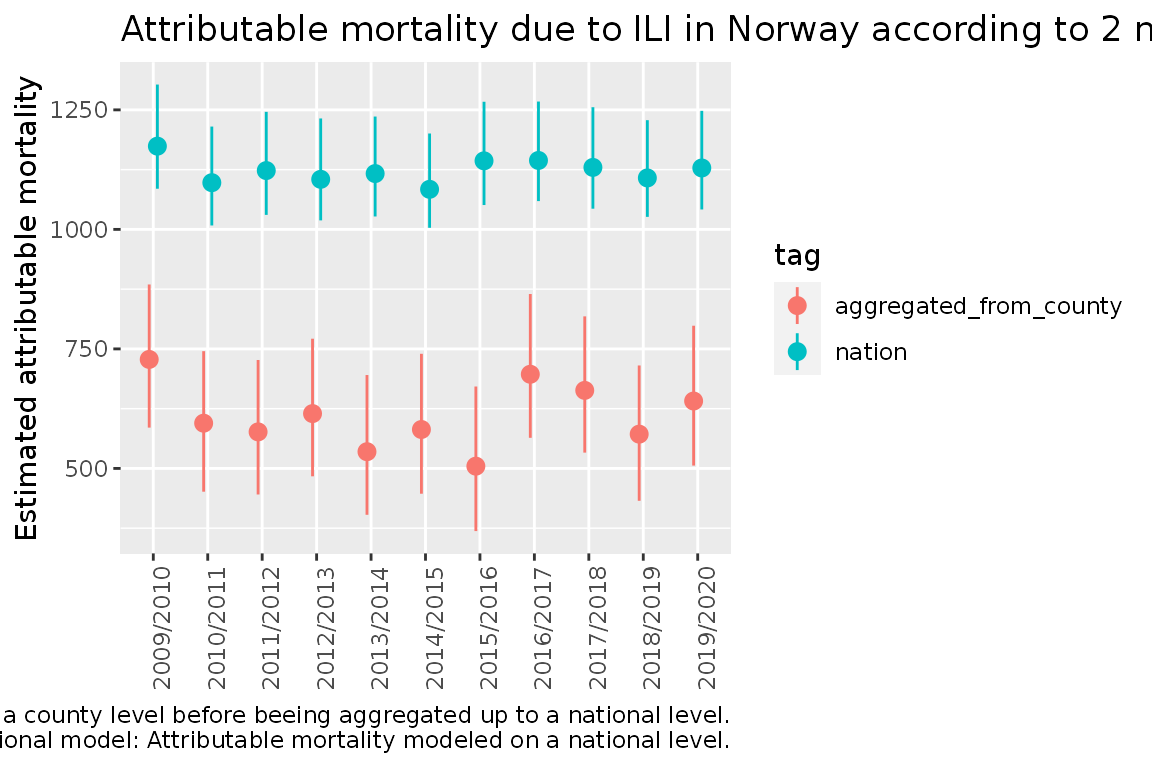
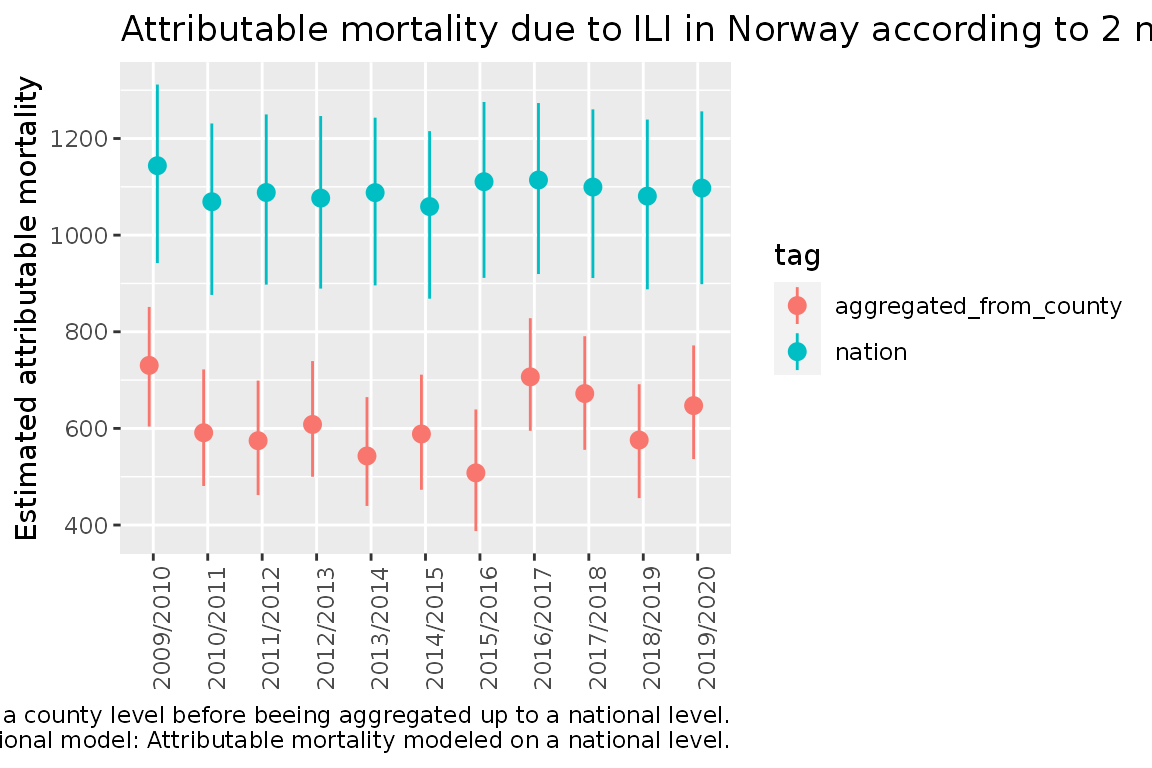
Deploy folkehelseinstituttet/attrib to github.com/folkehelseinstituttet/attrib.git:gh-pages

diff --git a/articles/intro.html b/articles/intro.html
@@ -90,7 +90,7 @@
 <div class="sourceCode" id="cb1"><pre class="downlit sourceCode r">
 <code class="sourceCode R"><span class="kw"><a href="https://rdrr.io/r/base/library.html">library</a></span><span class="op">(</span><span class="va">attrib</span><span class="op">)</span>
 <span class="co">#&gt; PACKAGE: attrib</span>
-<span class="co">#&gt; Version: 2021.01.26 at 04:44</span></code></pre></div>
+<span class="co">#&gt; Version: 2021.01.26 at 04:56</span></code></pre></div>
 <div id="introduction" class="section level1">
 <h1 class="hasAnchor">
 <a href="#introduction" class="anchor"></a>Introduction</h1>
@@ -285,11 +285,11 @@
 <span class="co">#&gt; 4:    1 2009/2010 2010 2010-01 24         norge 5367580  1.160403</span>
 <span class="co">#&gt; 5:    1 2009/2010 2010 2010-01 24         norge 5367580  1.160403</span>
 <span class="co">#&gt;    pr100_ili_lag_1 temperature_high deaths id_row sim_id sim_value</span>
-<span class="co">#&gt; 1:        1.100072                0    891      1      1  897.0764</span>
-<span class="co">#&gt; 2:        1.100072                0    891      1      2  900.9344</span>
-<span class="co">#&gt; 3:        1.100072                0    891      1      3  899.5073</span>
-<span class="co">#&gt; 4:        1.100072                0    891      1      4  895.2787</span>
-<span class="co">#&gt; 5:        1.100072                0    891      1      5  902.8483</span></code></pre></div>
+<span class="co">#&gt; 1:        1.100072                0    891      1      1  904.1044</span>
+<span class="co">#&gt; 2:        1.100072                0    891      1      2  896.2315</span>
+<span class="co">#&gt; 3:        1.100072                0    891      1      3  899.2413</span>
+<span class="co">#&gt; 4:        1.100072                0    891      1      4  901.0780</span>
+<span class="co">#&gt; 5:        1.100072                0    891      1      5  904.5623</span></code></pre></div>
 <p>We can see that we now have multiple expected mortalities for the same dataline. This is due to the coefficient simulations.</p>
 </div>
 <div id="estimating-attributable-mortality-using-est_attrib" class="section level1">
@@ -329,17 +329,17 @@
 <span class="co">#&gt; 4:       1.3909804 -6.02035548                0     97  4      1</span>
 <span class="co">#&gt; 5:       1.3942666 -1.72146124                0    114  5      1</span>
 <span class="co">#&gt;    sim_value_exposures=observed sim_value_temperature_high=0</span>
-<span class="co">#&gt; 1:                     114.2335                     114.2335</span>
-<span class="co">#&gt; 2:                     114.1081                     114.1081</span>
-<span class="co">#&gt; 3:                     119.3749                     119.3749</span>
-<span class="co">#&gt; 4:                     118.1146                     118.1146</span>
-<span class="co">#&gt; 5:                     117.5689                     117.5689</span>
+<span class="co">#&gt; 1:                     114.4406                     114.4406</span>
+<span class="co">#&gt; 2:                     114.6831                     114.6831</span>
+<span class="co">#&gt; 3:                     118.2017                     118.2017</span>
+<span class="co">#&gt; 4:                     117.7648                     117.7648</span>
+<span class="co">#&gt; 5:                     116.2892                     116.2892</span>
 <span class="co">#&gt;    sim_value_pr100_ili_lag_1=0</span>
-<span class="co">#&gt; 1:                    112.0490</span>
-<span class="co">#&gt; 2:                    111.7748</span>
-<span class="co">#&gt; 3:                    111.0028</span>
-<span class="co">#&gt; 4:                    111.7554</span>
-<span class="co">#&gt; 5:                    111.8105</span></code></pre></div>
+<span class="co">#&gt; 1:                    112.9690</span>
+<span class="co">#&gt; 2:                    113.2213</span>
+<span class="co">#&gt; 3:                    113.1184</span>
+<span class="co">#&gt; 4:                    113.7927</span>
+<span class="co">#&gt; 5:                    112.8091</span></code></pre></div>
 <p>We can see in the above dataset that the columns <em>id</em>, <em>sim_id</em>, <em>sim_value_exposures=observed</em>, <em>sim_value_temperature_high=0</em>, <em>sim_value_pr100_ili_lag_1=0</em> are added to the previous set of columns. For each row in the original dataset we now have 20 <!-- change this if we change n_sim --> rows, one for each of the simulations done by est_attrib. In each row we see the estimate of the number of deaths given a reference value for <em>sim_value_temperature_high</em> and <em>sim_value_pr100_ili_lag_1</em>.</p>
 <p>To make the data processing easier later we convert the dataset from wide to long form and collapse the estimated mortality</p>
 <div class="sourceCode" id="cb10"><pre class="downlit sourceCode r">
@@ -364,11 +364,11 @@
 <span class="co">#&gt; 4:      county03 2012/2013 24    1  4      1     97</span>
 <span class="co">#&gt; 5:      county03 2013/2014 24    1  5      1    114</span>
 <span class="co">#&gt;    sim_value_exposures=observed                         attr    value</span>
-<span class="co">#&gt; 1:                     114.2335 sim_value_temperature_high=0 114.2335</span>
-<span class="co">#&gt; 2:                     114.1081 sim_value_temperature_high=0 114.1081</span>
-<span class="co">#&gt; 3:                     119.3749 sim_value_temperature_high=0 119.3749</span>
-<span class="co">#&gt; 4:                     118.1146 sim_value_temperature_high=0 118.1146</span>
-<span class="co">#&gt; 5:                     117.5689 sim_value_temperature_high=0 117.5689</span></code></pre></div>
+<span class="co">#&gt; 1:                     114.4406 sim_value_temperature_high=0 114.4406</span>
+<span class="co">#&gt; 2:                     114.6831 sim_value_temperature_high=0 114.6831</span>
+<span class="co">#&gt; 3:                     118.2017 sim_value_temperature_high=0 118.2017</span>
+<span class="co">#&gt; 4:                     117.7648 sim_value_temperature_high=0 117.7648</span>
+<span class="co">#&gt; 5:                     116.2892 sim_value_temperature_high=0 116.2892</span></code></pre></div>
 <p>We can see that the columns <em>sim_value_temperature_high=0</em>, <em>sim_value_pr100_ili_lag_1=0</em> are now collapsed into the new column <em>attr</em> and <em>value</em> with <em>attr</em> describing which exposure we have and <em>value</em> giving the corresponding reference value.</p>
 <div class="sourceCode" id="cb11"><pre class="downlit sourceCode r">
 <code class="sourceCode R"><span class="va">est_attrib_nation_long</span><span class="op">&lt;-</span><span class="fu">data.table</span><span class="fu">::</span><span class="fu"><a href="https://Rdatatable.gitlab.io/data.table/reference/melt.data.table.html">melt.data.table</a></span><span class="op">(</span><span class="va">est_attrib_sim_nation</span>, 
@@ -406,17 +406,17 @@
 
 <span class="fu"><a href="https://rdrr.io/r/utils/head.html">head</a></span><span class="op">(</span><span class="va">aggregated_county_to_nation</span>, <span class="fl">5</span><span class="op">)</span>
 <span class="co">#&gt;       season                         attr sim_id sim_value_exposures=observed</span>
-<span class="co">#&gt; 1: 2009/2010 sim_value_temperature_high=0      1                     44477.29</span>
-<span class="co">#&gt; 2: 2009/2010 sim_value_temperature_high=0      2                     44404.60</span>
-<span class="co">#&gt; 3: 2009/2010 sim_value_temperature_high=0      3                     44046.47</span>
-<span class="co">#&gt; 4: 2009/2010 sim_value_temperature_high=0      4                     44719.68</span>
-<span class="co">#&gt; 5: 2009/2010 sim_value_temperature_high=0      5                     44032.60</span>
+<span class="co">#&gt; 1: 2009/2010 sim_value_temperature_high=0      1                     44138.84</span>
+<span class="co">#&gt; 2: 2009/2010 sim_value_temperature_high=0      2                     44345.93</span>
+<span class="co">#&gt; 3: 2009/2010 sim_value_temperature_high=0      3                     44473.31</span>
+<span class="co">#&gt; 4: 2009/2010 sim_value_temperature_high=0      4                     43972.57</span>
+<span class="co">#&gt; 5: 2009/2010 sim_value_temperature_high=0      5                     44487.06</span>
 <span class="co">#&gt;       value deaths exp_attr                    tag</span>
-<span class="co">#&gt; 1: 44057.41  44421 419.8808 aggregated_from_county</span>
-<span class="co">#&gt; 2: 44005.93  44421 398.6736 aggregated_from_county</span>
-<span class="co">#&gt; 3: 43638.28  44421 408.1906 aggregated_from_county</span>
-<span class="co">#&gt; 4: 44300.63  44421 419.0446 aggregated_from_county</span>
-<span class="co">#&gt; 5: 43632.17  44421 400.4287 aggregated_from_county</span></code></pre></div>
+<span class="co">#&gt; 1: 43734.27  44421 404.5746 aggregated_from_county</span>
+<span class="co">#&gt; 2: 43951.09  44421 394.8379 aggregated_from_county</span>
+<span class="co">#&gt; 3: 44035.51  44421 437.8012 aggregated_from_county</span>
+<span class="co">#&gt; 4: 43549.05  44421 423.5226 aggregated_from_county</span>
+<span class="co">#&gt; 5: 44078.67  44421 408.3911 aggregated_from_county</span></code></pre></div>
 </div>
 <div id="aggregating-the-national-model-per-season" class="section level2">
 <h2 class="hasAnchor">
@@ -433,17 +433,17 @@
 <span class="va">aggregated_nation</span><span class="op">[</span>, <span class="va">tag</span><span class="op">:=</span> <span class="st">"nation"</span><span class="op">]</span>
 <span class="fu"><a href="https://rdrr.io/r/utils/head.html">head</a></span><span class="op">(</span><span class="va">aggregated_nation</span>, <span class="fl">5</span><span class="op">)</span>
 <span class="co">#&gt;       season                         attr sim_id sim_value_exposures=observed</span>
-<span class="co">#&gt; 1: 2009/2010 sim_value_temperature_high=0      1                     44526.17</span>
-<span class="co">#&gt; 2: 2009/2010 sim_value_temperature_high=0      2                     44451.95</span>
-<span class="co">#&gt; 3: 2009/2010 sim_value_temperature_high=0      3                     44828.59</span>
-<span class="co">#&gt; 4: 2009/2010 sim_value_temperature_high=0      4                     44420.46</span>
-<span class="co">#&gt; 5: 2009/2010 sim_value_temperature_high=0      5                     44252.00</span>
+<span class="co">#&gt; 1: 2009/2010 sim_value_temperature_high=0      1                     44170.47</span>
+<span class="co">#&gt; 2: 2009/2010 sim_value_temperature_high=0      2                     44236.86</span>
+<span class="co">#&gt; 3: 2009/2010 sim_value_temperature_high=0      3                     44382.99</span>
+<span class="co">#&gt; 4: 2009/2010 sim_value_temperature_high=0      4                     44407.70</span>
+<span class="co">#&gt; 5: 2009/2010 sim_value_temperature_high=0      5                     44657.79</span>
 <span class="co">#&gt;       value deaths exp_attr    tag</span>
-<span class="co">#&gt; 1: 44526.17  44421        0 nation</span>
-<span class="co">#&gt; 2: 44451.95  44421        0 nation</span>
-<span class="co">#&gt; 3: 44828.59  44421        0 nation</span>
-<span class="co">#&gt; 4: 44420.46  44421        0 nation</span>
-<span class="co">#&gt; 5: 44252.00  44421        0 nation</span></code></pre></div>
+<span class="co">#&gt; 1: 44170.47  44421        0 nation</span>
+<span class="co">#&gt; 2: 44236.86  44421        0 nation</span>
+<span class="co">#&gt; 3: 44382.99  44421        0 nation</span>
+<span class="co">#&gt; 4: 44407.70  44421        0 nation</span>
+<span class="co">#&gt; 5: 44657.79  44421        0 nation</span></code></pre></div>
 <p>For simplicity we <code><a href="https://Rdatatable.gitlab.io/data.table/reference/rbindlist.html">data.table::rbindlist</a></code> the two datasets together.</p>
 <div class="sourceCode" id="cb14"><pre class="downlit sourceCode r">
 <code class="sourceCode R"><span class="kw"><a href="https://rdrr.io/r/base/library.html">library</a></span><span class="op">(</span><span class="va"><a href="https://ggplot2.tidyverse.org">ggplot2</a></span><span class="op">)</span>
@@ -487,11 +487,11 @@
 <span class="co">#&gt; 4: 2009/2010  sim_value_pr100_ili_lag_1=0                 nation</span>
 <span class="co">#&gt; 5: 2010/2011 sim_value_temperature_high=0 aggregated_from_county</span>
 <span class="co">#&gt;    median.exp_attr q05.exp_attr q95.exp_attr</span>
-<span class="co">#&gt; 1:        409.5727     394.4030     429.4196</span>
+<span class="co">#&gt; 1:        411.5282     393.9481     428.2433</span>
 <span class="co">#&gt; 2:          0.0000       0.0000       0.0000</span>
-<span class="co">#&gt; 3:        728.0091     585.3667     884.7774</span>
-<span class="co">#&gt; 4:       1174.0957    1085.0376    1302.9560</span>
-<span class="co">#&gt; 5:        435.0326     415.8530     454.8746</span></code></pre></div>
+<span class="co">#&gt; 3:        730.4145     603.8295     851.3959</span>
+<span class="co">#&gt; 4:       1143.7170     942.2203    1311.6789</span>
+<span class="co">#&gt; 5:        433.8153     417.6023     453.6177</span></code></pre></div>
 <p>We can now see that we have credible intervals and estimates for attributable deaths for all exposures.</p>
 </div>
 <div id="plot-to-compare-the-national-with-the-aggregated-county-to-national-model" class="section level2">
@@ -531,11 +531,11 @@
 <span class="co">#&gt; 4: 2009/2010 1   30 sim_value_temperature_high=0      4</span>
 <span class="co">#&gt; 5: 2009/2010 1   30 sim_value_temperature_high=0      5</span>
 <span class="co">#&gt;    sim_value_exposures=observed    value deaths exp_attr  exp_irr</span>
-<span class="co">#&gt; 1:                     796.3953 758.3834    816 38.01194 1.050122</span>
-<span class="co">#&gt; 2:                     794.4613 758.3731    816 36.08818 1.047586</span>
-<span class="co">#&gt; 3:                     786.7533 749.8205    816 36.93281 1.049256</span>
-<span class="co">#&gt; 4:                     798.7191 760.8143    816 37.90487 1.049821</span>
-<span class="co">#&gt; 5:                     784.5405 748.3214    816 36.21906 1.048400</span></code></pre></div>
+<span class="co">#&gt; 1:                     787.4540 750.8571    816 36.59691 1.048740</span>
+<span class="co">#&gt; 2:                     789.0965 753.3793    816 35.71721 1.047409</span>
+<span class="co">#&gt; 3:                     792.0026 752.4013    816 39.60130 1.052633</span>
+<span class="co">#&gt; 4:                     782.8373 744.5324    816 38.30495 1.051448</span>
+<span class="co">#&gt; 5:                     793.6363 756.6814    816 36.95485 1.048838</span></code></pre></div>
 <p>Again we compute the quantiles.</p>
 <div class="sourceCode" id="cb19"><pre class="downlit sourceCode r">
 <code class="sourceCode R">
@@ -556,23 +556,23 @@
 
 <span class="fu"><a href="https://rdrr.io/r/utils/head.html">head</a></span><span class="op">(</span><span class="va">aggregated_county_to_nation_weekly</span>, <span class="fl">5</span><span class="op">)</span>
 <span class="co">#&gt;       season x week                         attr deaths median.exp_attr</span>
-<span class="co">#&gt; 1: 2009/2010 1   30 sim_value_temperature_high=0    816    37.060433436</span>
+<span class="co">#&gt; 1: 2009/2010 1   30 sim_value_temperature_high=0    816    37.235227687</span>
 <span class="co">#&gt; 2: 2009/2010 1   30  sim_value_pr100_ili_lag_1=0    816     0.000000000</span>
-<span class="co">#&gt; 3: 2009/2010 2   31 sim_value_temperature_high=0    854    79.274909721</span>
-<span class="co">#&gt; 4: 2009/2010 2   31  sim_value_pr100_ili_lag_1=0    854     0.002331474</span>
-<span class="co">#&gt; 5: 2009/2010 3   32 sim_value_temperature_high=0    777    44.516169033</span>
+<span class="co">#&gt; 3: 2009/2010 2   31 sim_value_temperature_high=0    854    79.653263468</span>
+<span class="co">#&gt; 4: 2009/2010 2   31  sim_value_pr100_ili_lag_1=0    854     0.002338558</span>
+<span class="co">#&gt; 5: 2009/2010 3   32 sim_value_temperature_high=0    777    44.734458880</span>
 <span class="co">#&gt;    median.exp_irr q05.exp_attr q05.exp_irr q95.exp_attr q95.exp_irr</span>
-<span class="co">#&gt; 1:       1.049358 35.669498754    1.047286  38.83332481    1.051846</span>
-<span class="co">#&gt; 2:       1.000000  0.000000000    1.000000   0.00000000    1.000000</span>
-<span class="co">#&gt; 3:       1.105400 76.255765654    1.100939  83.12685987    1.110764</span>
-<span class="co">#&gt; 4:       1.000003  0.001873602    1.000002   0.00285421    1.000003</span>
-<span class="co">#&gt; 5:       1.059025 42.831545772    1.056546  46.67443007    1.062002</span>
+<span class="co">#&gt; 1:       1.049308 35.637178687    1.047306 38.718003499    1.051508</span>
+<span class="co">#&gt; 2:       1.000000  0.000000000    1.000000  0.000000000    1.000000</span>
+<span class="co">#&gt; 3:       1.105292 76.196783257    1.100981 82.853789644    1.110033</span>
+<span class="co">#&gt; 4:       1.000003  0.001925733    1.000002  0.002745695    1.000003</span>
+<span class="co">#&gt; 5:       1.058965 42.801650943    1.056570 46.519506284    1.061597</span>
 <span class="co">#&gt;          cumsum   cumsum_q05   cumsum_q95</span>
-<span class="co">#&gt; 1: 3.706043e+01 3.566950e+01  38.83332481</span>
-<span class="co">#&gt; 2: 0.000000e+00 0.000000e+00   0.00000000</span>
-<span class="co">#&gt; 3: 1.163353e+02 1.119253e+02 121.96018468</span>
-<span class="co">#&gt; 4: 2.331474e-03 1.873602e-03   0.00285421</span>
-<span class="co">#&gt; 5: 1.608515e+02 1.547568e+02 168.63461474</span></code></pre></div>
+<span class="co">#&gt; 1: 3.723523e+01 3.563718e+01 3.871800e+01</span>
+<span class="co">#&gt; 2: 0.000000e+00 0.000000e+00 0.000000e+00</span>
+<span class="co">#&gt; 3: 1.168885e+02 1.118340e+02 1.215718e+02</span>
+<span class="co">#&gt; 4: 2.338558e-03 1.925733e-03 2.745695e-03</span>
+<span class="co">#&gt; 5: 1.616230e+02 1.546356e+02 1.680913e+02</span></code></pre></div>
 <p>We can then plot the estimated cumulative attributable mortality over influenza seasons in Norway</p>
 <div class="sourceCode" id="cb21"><pre class="downlit sourceCode r">
 <code class="sourceCode R"><span class="kw"><a href="https://rdrr.io/r/base/library.html">library</a></span><span class="op">(</span><span class="va"><a href="https://ggplot2.tidyverse.org">ggplot2</a></span><span class="op">)</span>
@@ -705,11 +705,11 @@
 <span class="co">#&gt; 4:               1 -6.02035548                0     97  4      1</span>
 <span class="co">#&gt; 5:               1 -1.72146124                0    114  5      1</span>
 <span class="co">#&gt;    sim_value_exposures=observed sim_value_pr100_ili_lag_1=0</span>
-<span class="co">#&gt; 1:                     117.5199                    114.3936</span>
-<span class="co">#&gt; 2:                     116.1492                    113.4973</span>
-<span class="co">#&gt; 3:                     116.8654                    114.3731</span>
-<span class="co">#&gt; 4:                     116.5424                    113.7691</span>
-<span class="co">#&gt; 5:                     116.7415                    114.4553</span></code></pre></div>
+<span class="co">#&gt; 1:                     115.9001                    113.3129</span>
+<span class="co">#&gt; 2:                     115.9938                    113.9977</span>
+<span class="co">#&gt; 3:                     115.8917                    113.9866</span>
+<span class="co">#&gt; 4:                     114.7850                    112.5303</span>
+<span class="co">#&gt; 5:                     115.8483                    114.1553</span></code></pre></div>
 <p>We see we have obtained values for the reference of the exposure in the same way as before. The difference is that we changed the dataset before running <em>est_attrib</em>. This means we will now be observing the difference between <code>pr100_ili_lag_1=0</code> and <code>pr100_ili_lag_1=1</code>.</p>
 <p>We now aggregate to the national seasonal level.</p>
 <div class="sourceCode" id="cb26"><pre class="downlit sourceCode r">
@@ -724,17 +724,17 @@
 <span class="op">)</span><span class="op">]</span>
 <span class="fu"><a href="https://rdrr.io/r/utils/head.html">head</a></span><span class="op">(</span><span class="va">aggregated_county_to_nation_sim_irr</span>,<span class="fl">5</span><span class="op">)</span>
 <span class="co">#&gt;       season sim_id sim_value_exposures=observed sim_value_pr100_ili_lag_1=0</span>
-<span class="co">#&gt; 1: 2009/2010      1                     45071.05                    43872.05</span>
-<span class="co">#&gt; 2: 2009/2010      2                     44878.58                    43720.65</span>
-<span class="co">#&gt; 3: 2009/2010      3                     44596.78                    43425.20</span>
-<span class="co">#&gt; 4: 2009/2010      4                     45101.48                    43418.29</span>
-<span class="co">#&gt; 5: 2009/2010      5                     44743.23                    43122.50</span>
+<span class="co">#&gt; 1: 2009/2010      1                     44383.69                    43392.93</span>
+<span class="co">#&gt; 2: 2009/2010      2                     45300.81                    43953.79</span>
+<span class="co">#&gt; 3: 2009/2010      3                     44716.60                    43395.90</span>
+<span class="co">#&gt; 4: 2009/2010      4                     45031.34                    43757.68</span>
+<span class="co">#&gt; 5: 2009/2010      5                     45301.10                    43714.29</span>
 <span class="co">#&gt;    deaths  exp_irr</span>
-<span class="co">#&gt; 1:  44421 1.027329</span>
-<span class="co">#&gt; 2:  44421 1.026485</span>
-<span class="co">#&gt; 3:  44421 1.026979</span>
-<span class="co">#&gt; 4:  44421 1.038767</span>
-<span class="co">#&gt; 5:  44421 1.037584</span></code></pre></div>
+<span class="co">#&gt; 1:  44421 1.022832</span>
+<span class="co">#&gt; 2:  44421 1.030646</span>
+<span class="co">#&gt; 3:  44421 1.030434</span>
+<span class="co">#&gt; 4:  44421 1.029107</span>
+<span class="co">#&gt; 5:  44421 1.036300</span></code></pre></div>
 <p>Now we can compute the quantiles:</p>
 <div class="sourceCode" id="cb28"><pre class="downlit sourceCode r">
 <code class="sourceCode R">
@@ -753,17 +753,17 @@
 
 <span class="va">aggregated_county_to_nation_irr</span>
 <span class="co">#&gt;        season deaths median.exp_irr q05.exp_irr q95.exp_irr        tag</span>
-<span class="co">#&gt;  1: 2009/2010  44421       1.031916    1.026308    1.038444 aggregated</span>
-<span class="co">#&gt;  2: 2010/2011  43062       1.026973    1.021445    1.033672 aggregated</span>
-<span class="co">#&gt;  3: 2011/2012  43431       1.026311    1.020262    1.033384 aggregated</span>
-<span class="co">#&gt;  4: 2012/2013  43228       1.028274    1.022408    1.035125 aggregated</span>
-<span class="co">#&gt;  5: 2013/2014  43328       1.024468    1.018562    1.031276 aggregated</span>
-<span class="co">#&gt;  6: 2014/2015  42951       1.026993    1.021317    1.033835 aggregated</span>
-<span class="co">#&gt;  7: 2015/2016  43736       1.021893    1.015511    1.028451 aggregated</span>
-<span class="co">#&gt;  8: 2016/2017  43821       1.032732    1.026557    1.039005 aggregated</span>
-<span class="co">#&gt;  9: 2017/2018  43716       1.031051    1.024517    1.036883 aggregated</span>
-<span class="co">#&gt; 10: 2018/2019  43326       1.026022    1.020367    1.032560 aggregated</span>
-<span class="co">#&gt; 11: 2019/2020  43572       1.029825    1.023684    1.035704 aggregated</span></code></pre></div>
+<span class="co">#&gt;  1: 2009/2010  44421       1.032878    1.026097    1.038503 aggregated</span>
+<span class="co">#&gt;  2: 2010/2011  43062       1.028075    1.021076    1.034557 aggregated</span>
+<span class="co">#&gt;  3: 2011/2012  43431       1.027400    1.020973    1.034024 aggregated</span>
+<span class="co">#&gt;  4: 2012/2013  43228       1.028980    1.022247    1.035563 aggregated</span>
+<span class="co">#&gt;  5: 2013/2014  43328       1.025638    1.018737    1.031525 aggregated</span>
+<span class="co">#&gt;  6: 2014/2015  42951       1.027734    1.020764    1.034180 aggregated</span>
+<span class="co">#&gt;  7: 2015/2016  43736       1.022621    1.016164    1.029202 aggregated</span>
+<span class="co">#&gt;  8: 2016/2017  43821       1.033221    1.026550    1.038973 aggregated</span>
+<span class="co">#&gt;  9: 2017/2018  43716       1.031574    1.024764    1.037658 aggregated</span>
+<span class="co">#&gt; 10: 2018/2019  43326       1.026897    1.019577    1.032852 aggregated</span>
+<span class="co">#&gt; 11: 2019/2020  43572       1.030310    1.024110    1.036138 aggregated</span></code></pre></div>
 <p>Now we compare the resulting values for IRR with the ones obtained by <code>coef(fit_county)$season</code> and the 90 percent credible interval computed manually using the standard deviation given by summary(fit_county) for <em>pr100_ili_lag_1</em>.</p>
 <div class="sourceCode" id="cb29"><pre class="downlit sourceCode r">
 <code class="sourceCode R"><span class="va">coef_fit_county</span> <span class="op">&lt;-</span> <span class="fu">data.table</span><span class="fu">::</span><span class="fu"><a href="https://Rdatatable.gitlab.io/data.table/reference/as.data.table.html">as.data.table</a></span><span class="op">(</span><span class="fu"><a href="https://rdrr.io/r/stats/coef.html">coef</a></span><span class="op">(</span><span class="va">fit_county</span><span class="op">)</span><span class="op">$</span><span class="va">season</span><span class="op">)</span>
@@ -819,17 +819,17 @@
 <span class="co">#&gt;  9: 2017/2018 1.031165 1.024805 1.037565  from_coef</span>
 <span class="co">#&gt; 10: 2018/2019 1.026588 1.020256 1.032959  from_coef</span>
 <span class="co">#&gt; 11: 2019/2020 1.030317 1.023962 1.036711  from_coef</span>
-<span class="co">#&gt; 12: 2009/2010 1.031916 1.026308 1.038444 aggregated</span>
-<span class="co">#&gt; 13: 2010/2011 1.026973 1.021445 1.033672 aggregated</span>
-<span class="co">#&gt; 14: 2011/2012 1.026311 1.020262 1.033384 aggregated</span>
-<span class="co">#&gt; 15: 2012/2013 1.028274 1.022408 1.035125 aggregated</span>
-<span class="co">#&gt; 16: 2013/2014 1.024468 1.018562 1.031276 aggregated</span>
-<span class="co">#&gt; 17: 2014/2015 1.026993 1.021317 1.033835 aggregated</span>
-<span class="co">#&gt; 18: 2015/2016 1.021893 1.015511 1.028451 aggregated</span>
-<span class="co">#&gt; 19: 2016/2017 1.032732 1.026557 1.039005 aggregated</span>
-<span class="co">#&gt; 20: 2017/2018 1.031051 1.024517 1.036883 aggregated</span>
-<span class="co">#&gt; 21: 2018/2019 1.026022 1.020367 1.032560 aggregated</span>
-<span class="co">#&gt; 22: 2019/2020 1.029825 1.023684 1.035704 aggregated</span>
+<span class="co">#&gt; 12: 2009/2010 1.032878 1.026097 1.038503 aggregated</span>
+<span class="co">#&gt; 13: 2010/2011 1.028075 1.021076 1.034557 aggregated</span>
+<span class="co">#&gt; 14: 2011/2012 1.027400 1.020973 1.034024 aggregated</span>
+<span class="co">#&gt; 15: 2012/2013 1.028980 1.022247 1.035563 aggregated</span>
+<span class="co">#&gt; 16: 2013/2014 1.025638 1.018737 1.031525 aggregated</span>
+<span class="co">#&gt; 17: 2014/2015 1.027734 1.020764 1.034180 aggregated</span>
+<span class="co">#&gt; 18: 2015/2016 1.022621 1.016164 1.029202 aggregated</span>
+<span class="co">#&gt; 19: 2016/2017 1.033221 1.026550 1.038973 aggregated</span>
+<span class="co">#&gt; 20: 2017/2018 1.031574 1.024764 1.037658 aggregated</span>
+<span class="co">#&gt; 21: 2018/2019 1.026897 1.019577 1.032852 aggregated</span>
+<span class="co">#&gt; 22: 2019/2020 1.030310 1.024110 1.036138 aggregated</span>
 <span class="co">#&gt;        season      irr      q05      q95        tag</span></code></pre></div>
 <div class="sourceCode" id="cb32"><pre class="downlit sourceCode r">
 <code class="sourceCode R"><span class="va">q</span> <span class="op">&lt;-</span> <span class="fu"><a href="https://ggplot2.tidyverse.org/reference/ggplot.html">ggplot</a></span><span class="op">(</span>
